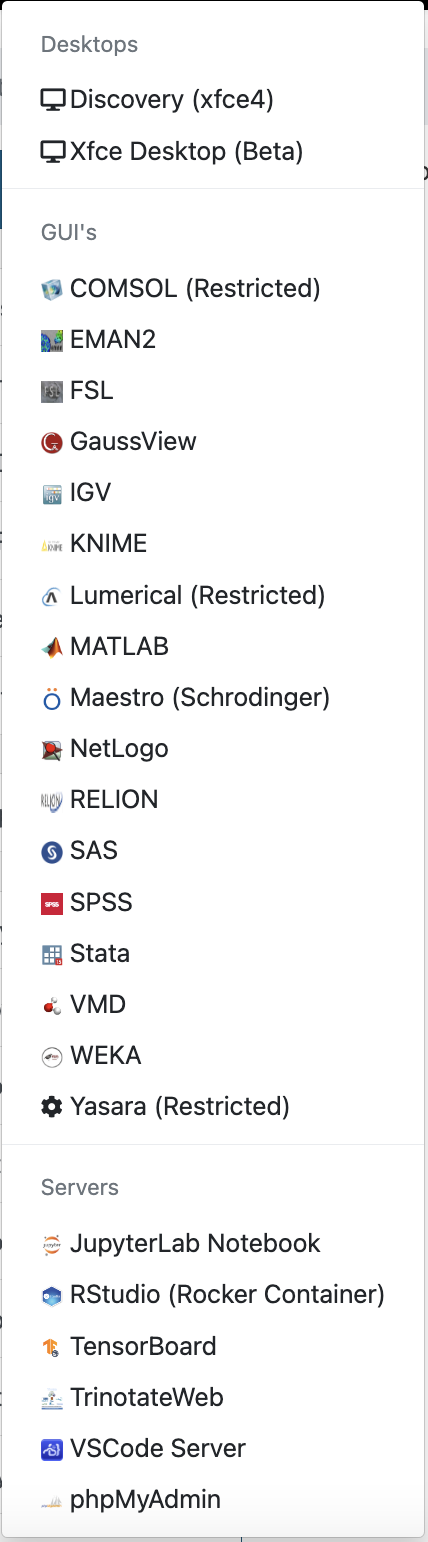
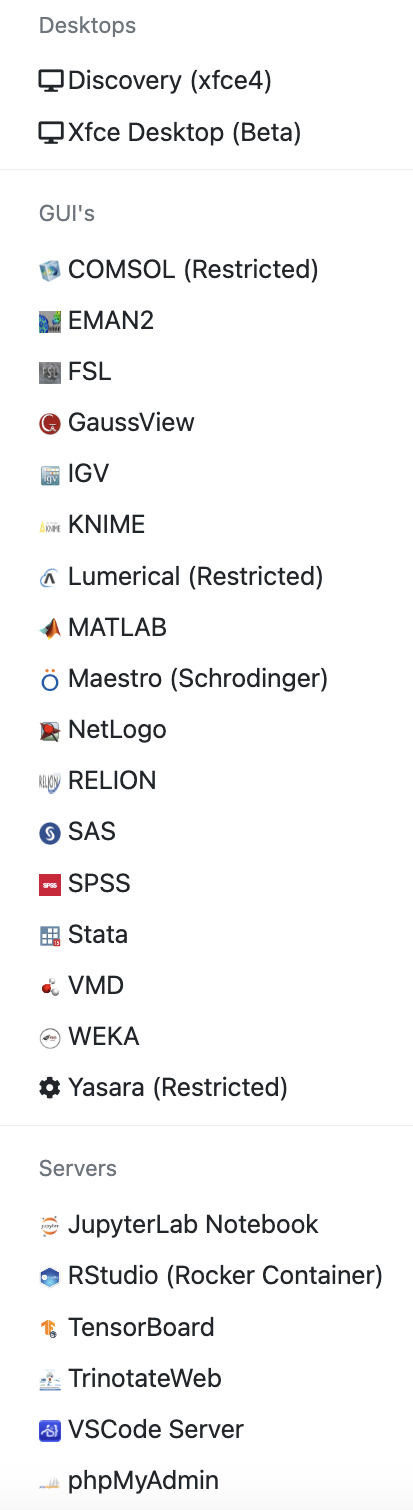
update interactveapps.md

diff --git a/docs/source/using-ood/interactiveapps.md b/docs/source/using-ood/interactiveapps.md
@@ -2,9 +2,9 @@
 
 # OOD Interactive Apps
 
-There are a number of applications that you can access and use through the OOD web portal. When you select an application and click launch, the scheduler (Slurm) allocates a compute node with a predetermined number of cores and amount of memory. The default time for running any of the applications is one hour. It is recommended that you keep the default. If you ask for more than one hour, you will need to wait for Slurm to allocate a resource that can run for your requested time, which could take a long time to be allocated, depending on how busy the cluster is.
+The OOD web portal offers a variety of applications. When you click launch, the scheduler (Slurm) assigns a compute node with a set number of cores and memory. By default, applications run for one hour. If you request more than one hour, you may need to wait for Slurm to assign resources to accommodate your requested time.
 
-If you are attempting to run a job on one of the interactive apps on OOD that launches a graphical user interface (GUI), such as Maestro, you might get an error if your passwordless ssh is not set up correctly. See {ref}`using-x11` for tips and troubleshooting information opening applications that use X11 forwarding.
+If you are trying to run a job on one of the interactive apps on OOD that launches a graphical user interface (GUI), such as Maestro, you may encounter an error if your passwordless ssh is improperly set up. Check out {ref}using-x11 for tips and troubleshooting information on opening applications that use X11 forwarding.
 
 ## Available Apps (June 2023)
 
@@ -13,51 +13,51 @@ On the Interactive Apps tab, you can view the list of available interactive apps
 :::{image} ../images/ood_apps_2023_06.png
 ---
 alt: an image the OOD apps (06-2023).
-scale: 30%
+scale: 40%
 align: right
 ---
 :::
 
 :::{note}
-Some apps are reserved for specific research groups and are not for general access, denoted by Restricted next to application name. If you get an access error when attempting to open an app, and you believe that you should have access to it, please email <rchelp@northeastern.edu> with your username, research group, the app you are trying to access, a screenshot of the error that you are getting, and we will look into the issue.
+Some apps are reserved for specific research groups and are not for public access, denoted by Restricted next to the application name. If you get an access error when attempting to open an app, and you believe that you should have access to it, please email <rchelp@northeastern.edu> with your username, research group, the app you are trying to access, a screenshot of the error that you are getting, and we will look into the issue.
 :::
 
-1. In a web browser, go to [Open On Demand]. If prompted, enter your myNortheastern username and password.
+1. Go to [Open On Demand] in a web browser. If prompted, enter your myNortheastern username and password.
 1. Select **Interactive Apps**, then select the application you want to use.
-1. For most apps, keep the default options, and then click **Launch**. You might have to wait a
-   minute or two for a compute node to be allocated with your requested time and resource.
+1. Keep the default options for most apps, then click **Launch**. You might have to wait a minute or two for a compute node to be available for your requested time and resource.
 
 ## Jupyter Notebook
 
-One of the interactive apps on OOD is JupyterLab Notebook. You need to do some initial setup in order to use this app effectively. This section will provide a walkthrough of setting up and using this app. The general workflow is to first create a virtual python environment, ensure that JupyterLab Notebook is installed in your virtual environment, and then reference this environment when you start the JupyterLab Notebook OOD interactive app.
+JupyterLab Notebook is one of the interactive apps on OOD. This section will provide a walkthrough of setting up and using this app. The general workflow is to create a virtual Python environment, ensure that JupyterLab Notebook uses your virtual environment, and reference this environment when you start the JupyterLab Notebook OOD interactive app.
 
 You can find the JupyterLab notebook on OOD by following these steps:
 1. Go to [Open On Demand]
 1. Click on Interactive Apps
 1. Select JupyterLab Notebook from the dropdown list
 
-The OOD form for lauching JupyterLab Notebook will appear.
+The OOD form for launching JupyterLab Notebook will appear.
 
 ### Conda virtual environment
 
-You can import python packages in your JupyterLab Notebook session by creating a conda virtual environment and activating that environment when starting a JupyterLab Notebook instance.
+You can import Python packages in your JupyterLab Notebook session by creating a conda virtual environment and activating that environment when starting a JupyterLab Notebook instance.
 
-1. First set up a virtual python environment. See {ref}`creating-python` for how to set up a virtual python environment on the HPC using the terminal.
+1. First, set up a virtual Python environment. See {ref}`creating-python` for how to set up a virtual Python environment on the HPC using the terminal.
 1. Type `source activate <yourenvironmentname>` where `<yourenvironmentname>` is the name of your custom environment.
 1. Type `conda install jupyterlab -y` to install jupyterlab in your environment.
 
 ###  Using OOD to launch Jupyter Notebook
 1. Go to [Open On Demand].
 1. Click **Interactive Apps**, then select **JupyterLab Notebook**.
-1. Enter your **Working Directory** (as examples `/home/<username>` or `/work/<project>`) that you want JupyterLab Notebook to launch in.
+1. Enter your **Working Directory** (e.g., `/home/<username>` or `/work/<project>`) that you want JupyterLab Notebook to launch in.
 1. Select from the **Partition** dropdown menu the partition you want to use for your session. Refer to {ref}`partition-names` for the resource restrictions for the different partitions. If you need a GPU, select the `gpu` partition.
 1. Select the compute node features for the job:
    - In the **Time** field, enter the number of hour(s) needed for the job.
-   - In the **Memory (in Gb)** field, enter the amount of memory you need for the job.
+   - Enter the memory you need for the job in the **Memory (in Gb)** field.
    - If you selected the `gpu` partition from the dropdown menu, select the GPU you would like to use and the version of CUDA that you would like to use for your session under the respective dropdown menus.
-1. Select the Anaconda version that you used to create your virtual python environment in the **System-wide Conda Module** field.
-1. Check **Custom Anaconda Environment** box, and enter the name of your custom virtual python environment in the **Name of Custom Conda Environment** field.
-1. Click **Launch**. This will put you in the queue for a compute node. Note that this might take a few minutes, depending on the resources you requested.
+
+1. Select the Anaconda version you used to create your virtual Python environment in the **System-wide Conda Module** field.
+1. Check the **Custom Anaconda Environment** box, and enter the name of your custom virtual Python environment in the **Name of Custom Conda Environment** field.
+1. Click **Launch** to join the queue for a compute node. This might take a few minutes, depending on your requested resources.
 1. When you have been allocated a compute node, click **Connect to Jupyter**.
 
 When your Jupyter Notebook is running and open, type `conda list` in a cell and run the cell to confirm that the environment is your custom conda environment (you should see this on the first line). This command will also list all
@@ -68,14 +68,14 @@ of your available packages.
 This Open OnDemand application is a containerized desktop running on the HPC cluster. It has access to these tools/programs:
 
 - Slurm (for running Slurm commands via the terminal in the desktop and interacting on compute nodes)
-- Module command (for loading and running HPC ready modules)
+- Module command (for loading and running HPC-ready modules)
 - File explorer (able to traverse and view files that you have access to on the HPC)
 - Firefox web browser
 - VLC media player
-- Office Libre suite of applications (work processing, spreadsheets, presentation applications)
+- Office Libre suite of applications (word processing, spreadsheets, presentation applications)
 
 :::{note}
-The desktop application is itself a Singularity container and has not been set up to run a Singularity container inside of it. If a user is trying to run a module or program that itself runs a container while inside of this application it will fail.
+The desktop application is a Singularity container: a Singularity container cannot run inside. It will fail if a user tries to run a module or program that runs a container inside this application.
 :::
 
 [Open On Demand]: https://www.ood.discovery.neu.edu/
